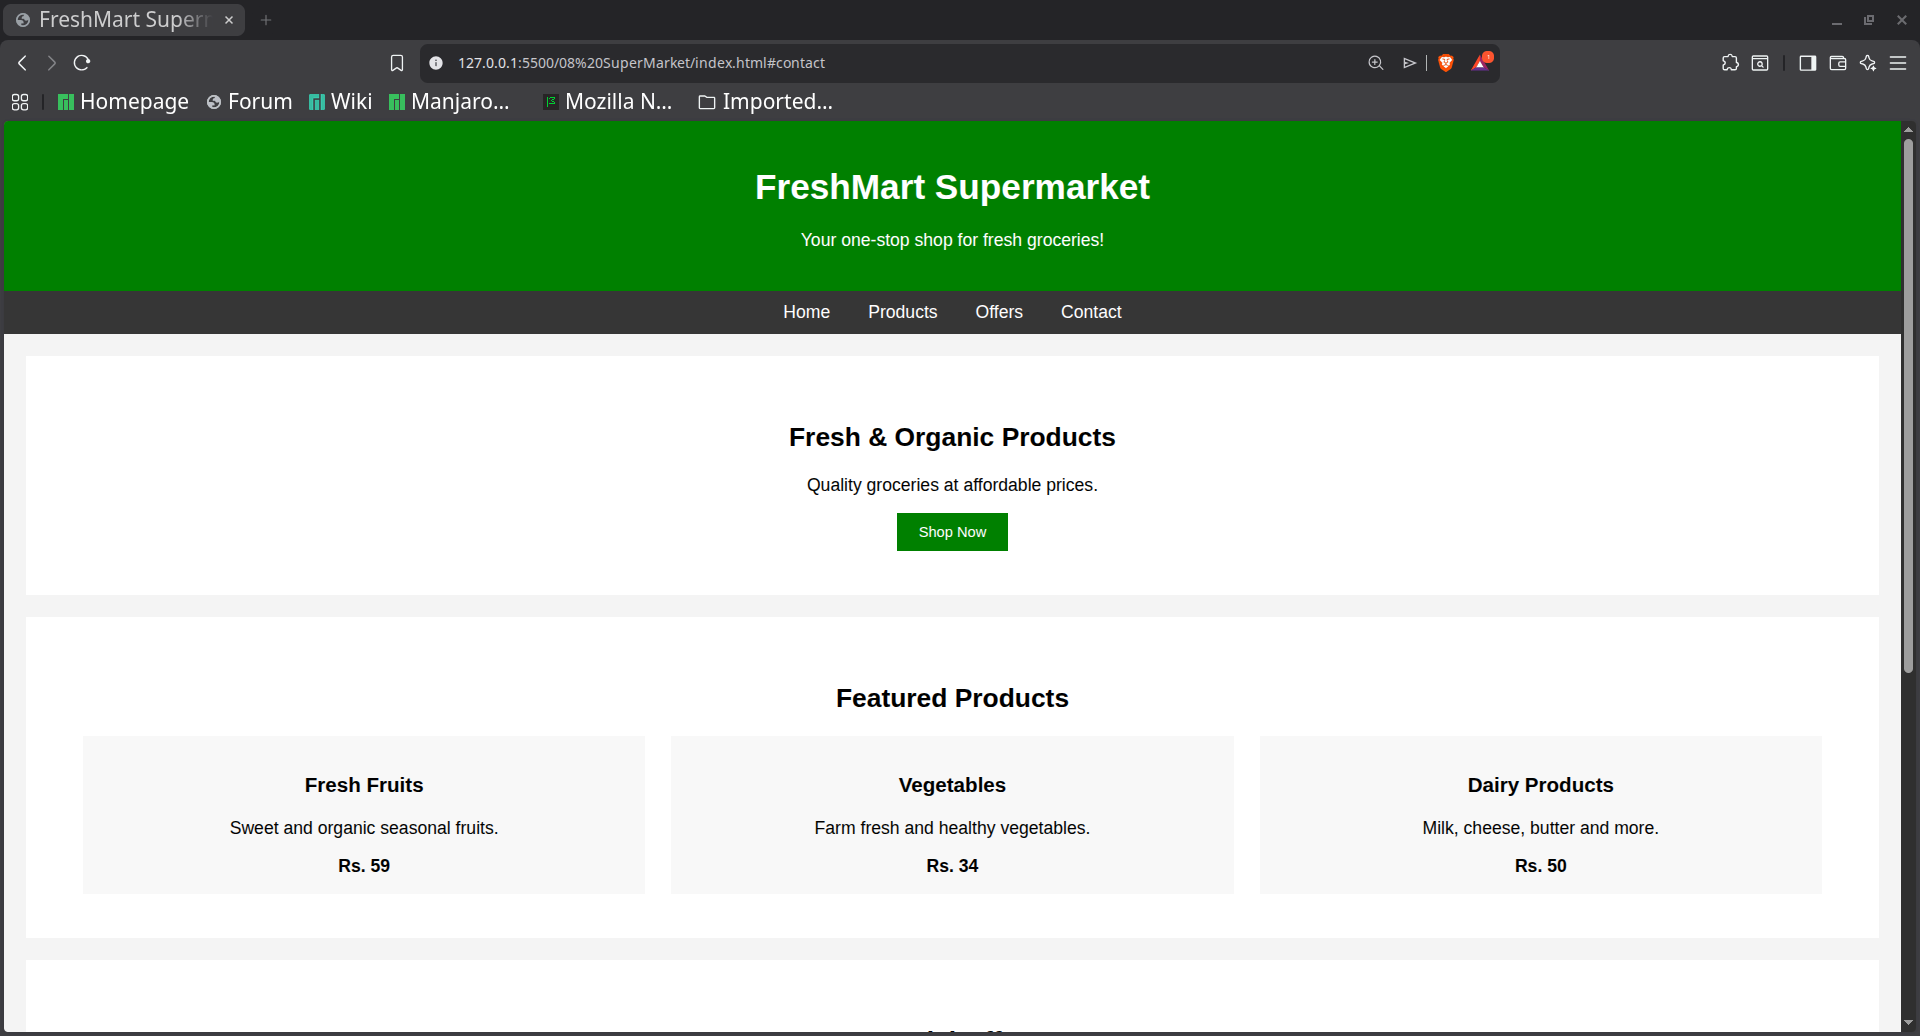
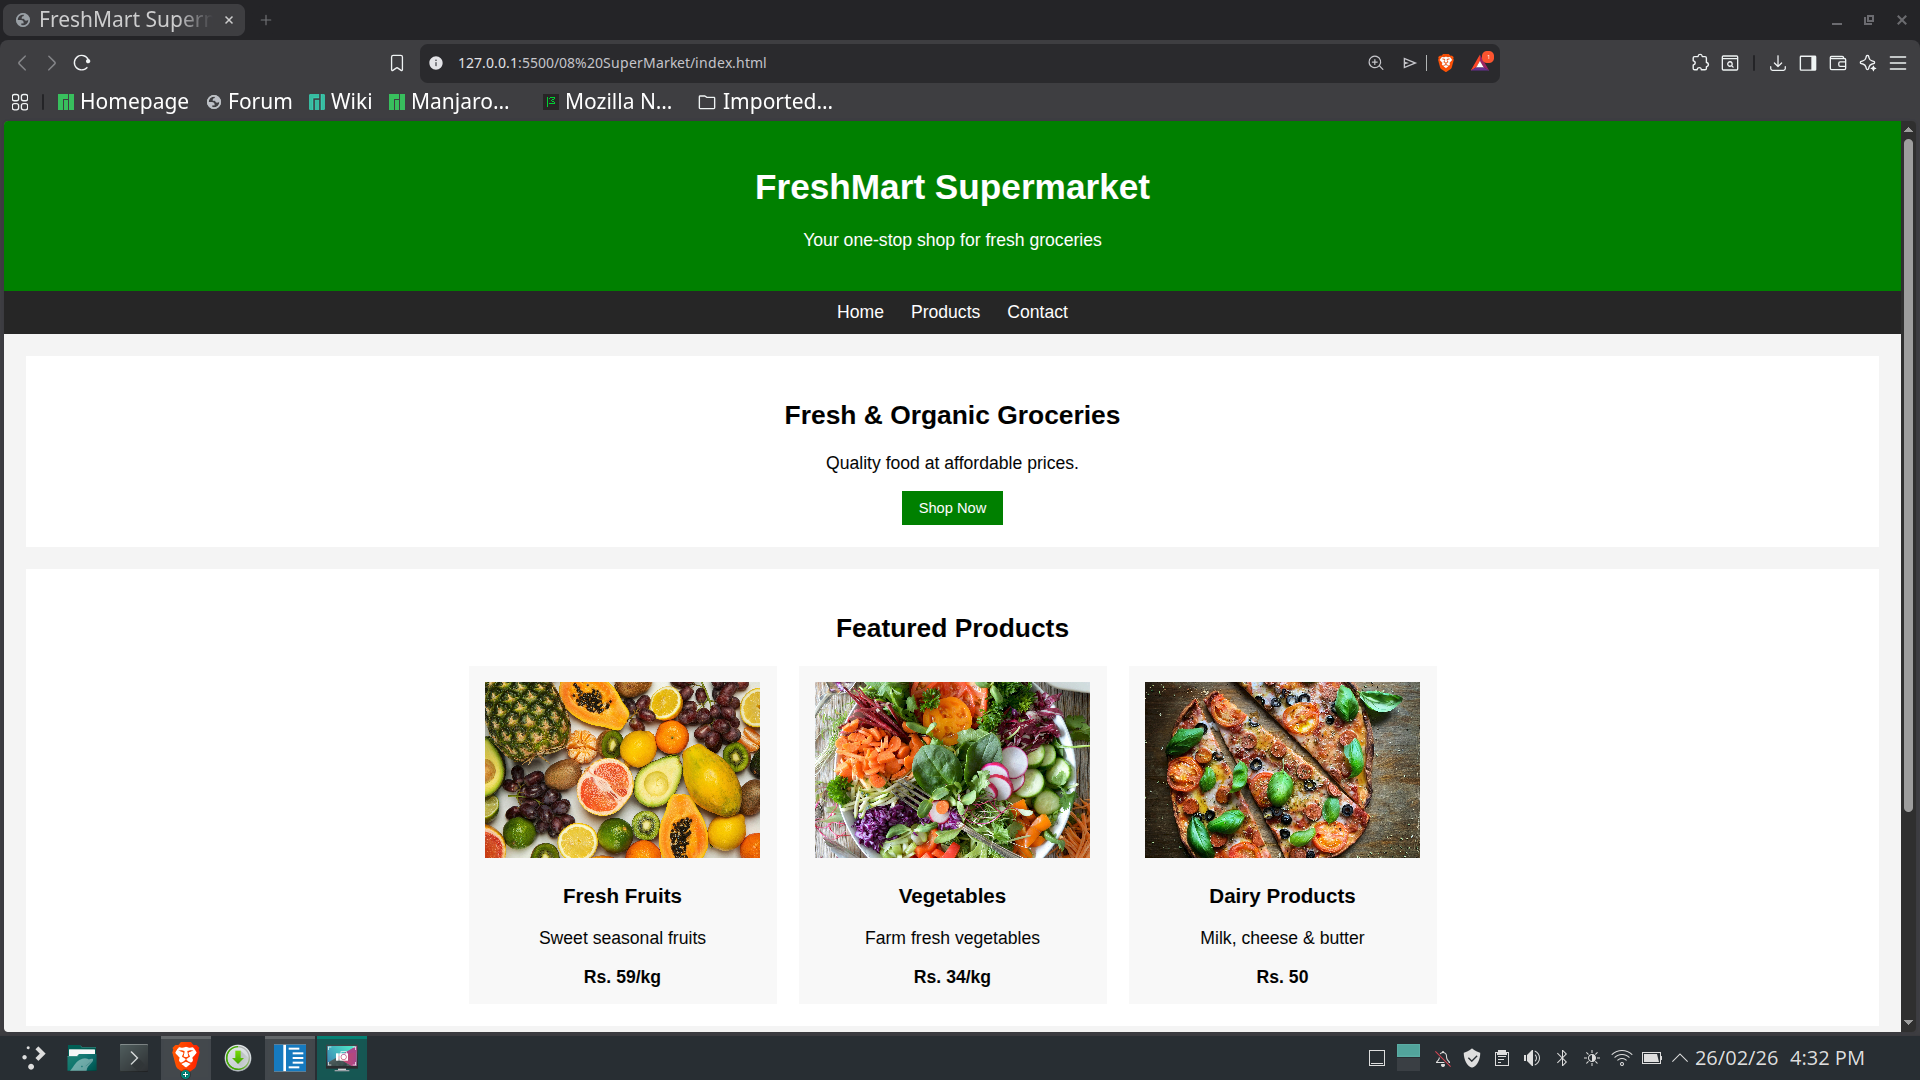
Changed supermarket

diff --git a/08 SuperMarket/index.html b/08 SuperMarket/index.html
@@ -1,3 +1,4 @@
+<!DOCTYPE html>
 <html>
 <head>
     <title>FreshMart Supermarket</title>
@@ -6,93 +7,95 @@
             margin: 0;
             font-family: Arial;
             background: #f4f4f4;
+            text-align: center
         }
-        .header {
+        header {
             background: green;
-            color: white;
-            padding: 20px;
-            text-align: center;
+            color: #fff;
+            padding: 20px
         }
         nav {
-            background: #333;
-            padding: 10px;
-            text-align: center;
+            background: #222;
+            padding: 10px
         }
         nav a {
-            color: white;
-            margin: 0 15px;
-            text-decoration: none;
+            color: #fff;
+            margin: 0 10px;
+            text-decoration: none
         }
         section {
-            background: white;
+            background: #fff;
             margin: 20px;
-            padding: 40px;
-            text-align: center;
+            padding: 20px
         }
-        .product-container {
+        .products {
             display: flex;
-            justify-content: space-around;
+            justify-content: center;
+            gap: 20px;
+            flex-wrap: wrap
         }
-        .product {
-            background: #f9f9f9;
+        .card {
+            background: #fafafa;
             padding: 15px;
-            width: 30%;
+            width: 250px
+        }
+        .card img {
+            width: 100%;
+            height: 160px;
+            object-fit: cover
         }
         button {
-            padding: 10px 20px;
+            padding: 8px 15px;
             background: green;
-            color: white;
-            border: none;
+            color: #fff;
+            border: 0;
+            cursor: pointer
         }
         footer {
             background: #222;
-            color: white;
-            text-align: center;
-            padding: 15px;
+            color: #fff;
+            padding: 10px;
+            margin-top: 20px
         }
     </style>
 </head>
 <body>
-    <div class="header">
+    <header>
         <h1>FreshMart Supermarket</h1>
-        <p>Your one-stop shop for fresh groceries!</p>
-    </div>
+        <p>Your one-stop shop for fresh groceries</p>
+    </header>
     <nav>
-        <a href="#home">Home</a>
+        <a href="#">Home</a>
         <a href="#products">Products</a>
-        <a href="#offers">Offers</a>
         <a href="#contact">Contact</a>
     </nav>
-    <section id="home">
-        <h2>Fresh & Organic Products</h2>
-        <p>Quality groceries at affordable prices.</p>
+    <section>
+        <h2>Fresh & Organic Groceries</h2>
+        <p>Quality food at affordable prices.</p>
         <button>Shop Now</button>
     </section>
     <section id="products">
         <h2>Featured Products</h2>
-        <div class="product-container">
-            <div class="product">
+        <div class="products">
+            <div class="card">
+                <img src="./assets/fruits.jpeg">
                 <h3>Fresh Fruits</h3>
-                <p>Sweet and organic seasonal fruits.</p>
-                <b>Rs. 59</b>
+                <p>Sweet seasonal fruits</p>
+                <b>Rs. 59/kg</b>
             </div>
-            <div class="product">
+            <div class="card">
+                <img src="./assets/vegetables.jpeg">
                 <h3>Vegetables</h3>
-                <p>Farm fresh and healthy vegetables.</p>
-                <b>Rs. 34</b>
+                <p>Farm fresh vegetables</p>
+                <b>Rs. 34/kg</b>
             </div>
-            <div class="product">
+            <div class="card">
+                <img src="./assets/dairy.jpeg">
                 <h3>Dairy Products</h3>
-                <p>Milk, cheese, butter and more.</p>
+                <p>Milk, cheese & butter</p>
                 <b>Rs. 50</b>
             </div>
         </div>
-    </section>
-    <section id="offers">
-        <h2>Special Offers</h2>
-        <p>Buy 1 Get 1 Free on fruits</p>
-        <p>20% off vegetables on weekends</p>
-        <p>Free delivery over Rs. 50</p>
     </section>
     <section id="contact">
         <h2>Contact Us</h2>
@@ -100,8 +103,5 @@
         <p>Phone: +91 4854444444</p>
         <p>123 Market Street, Aluva</p>
     </section>
-    <footer>
-        &copy; 2026 FreshMart Supermarket
-    </footer>
 </body>
 </html>
